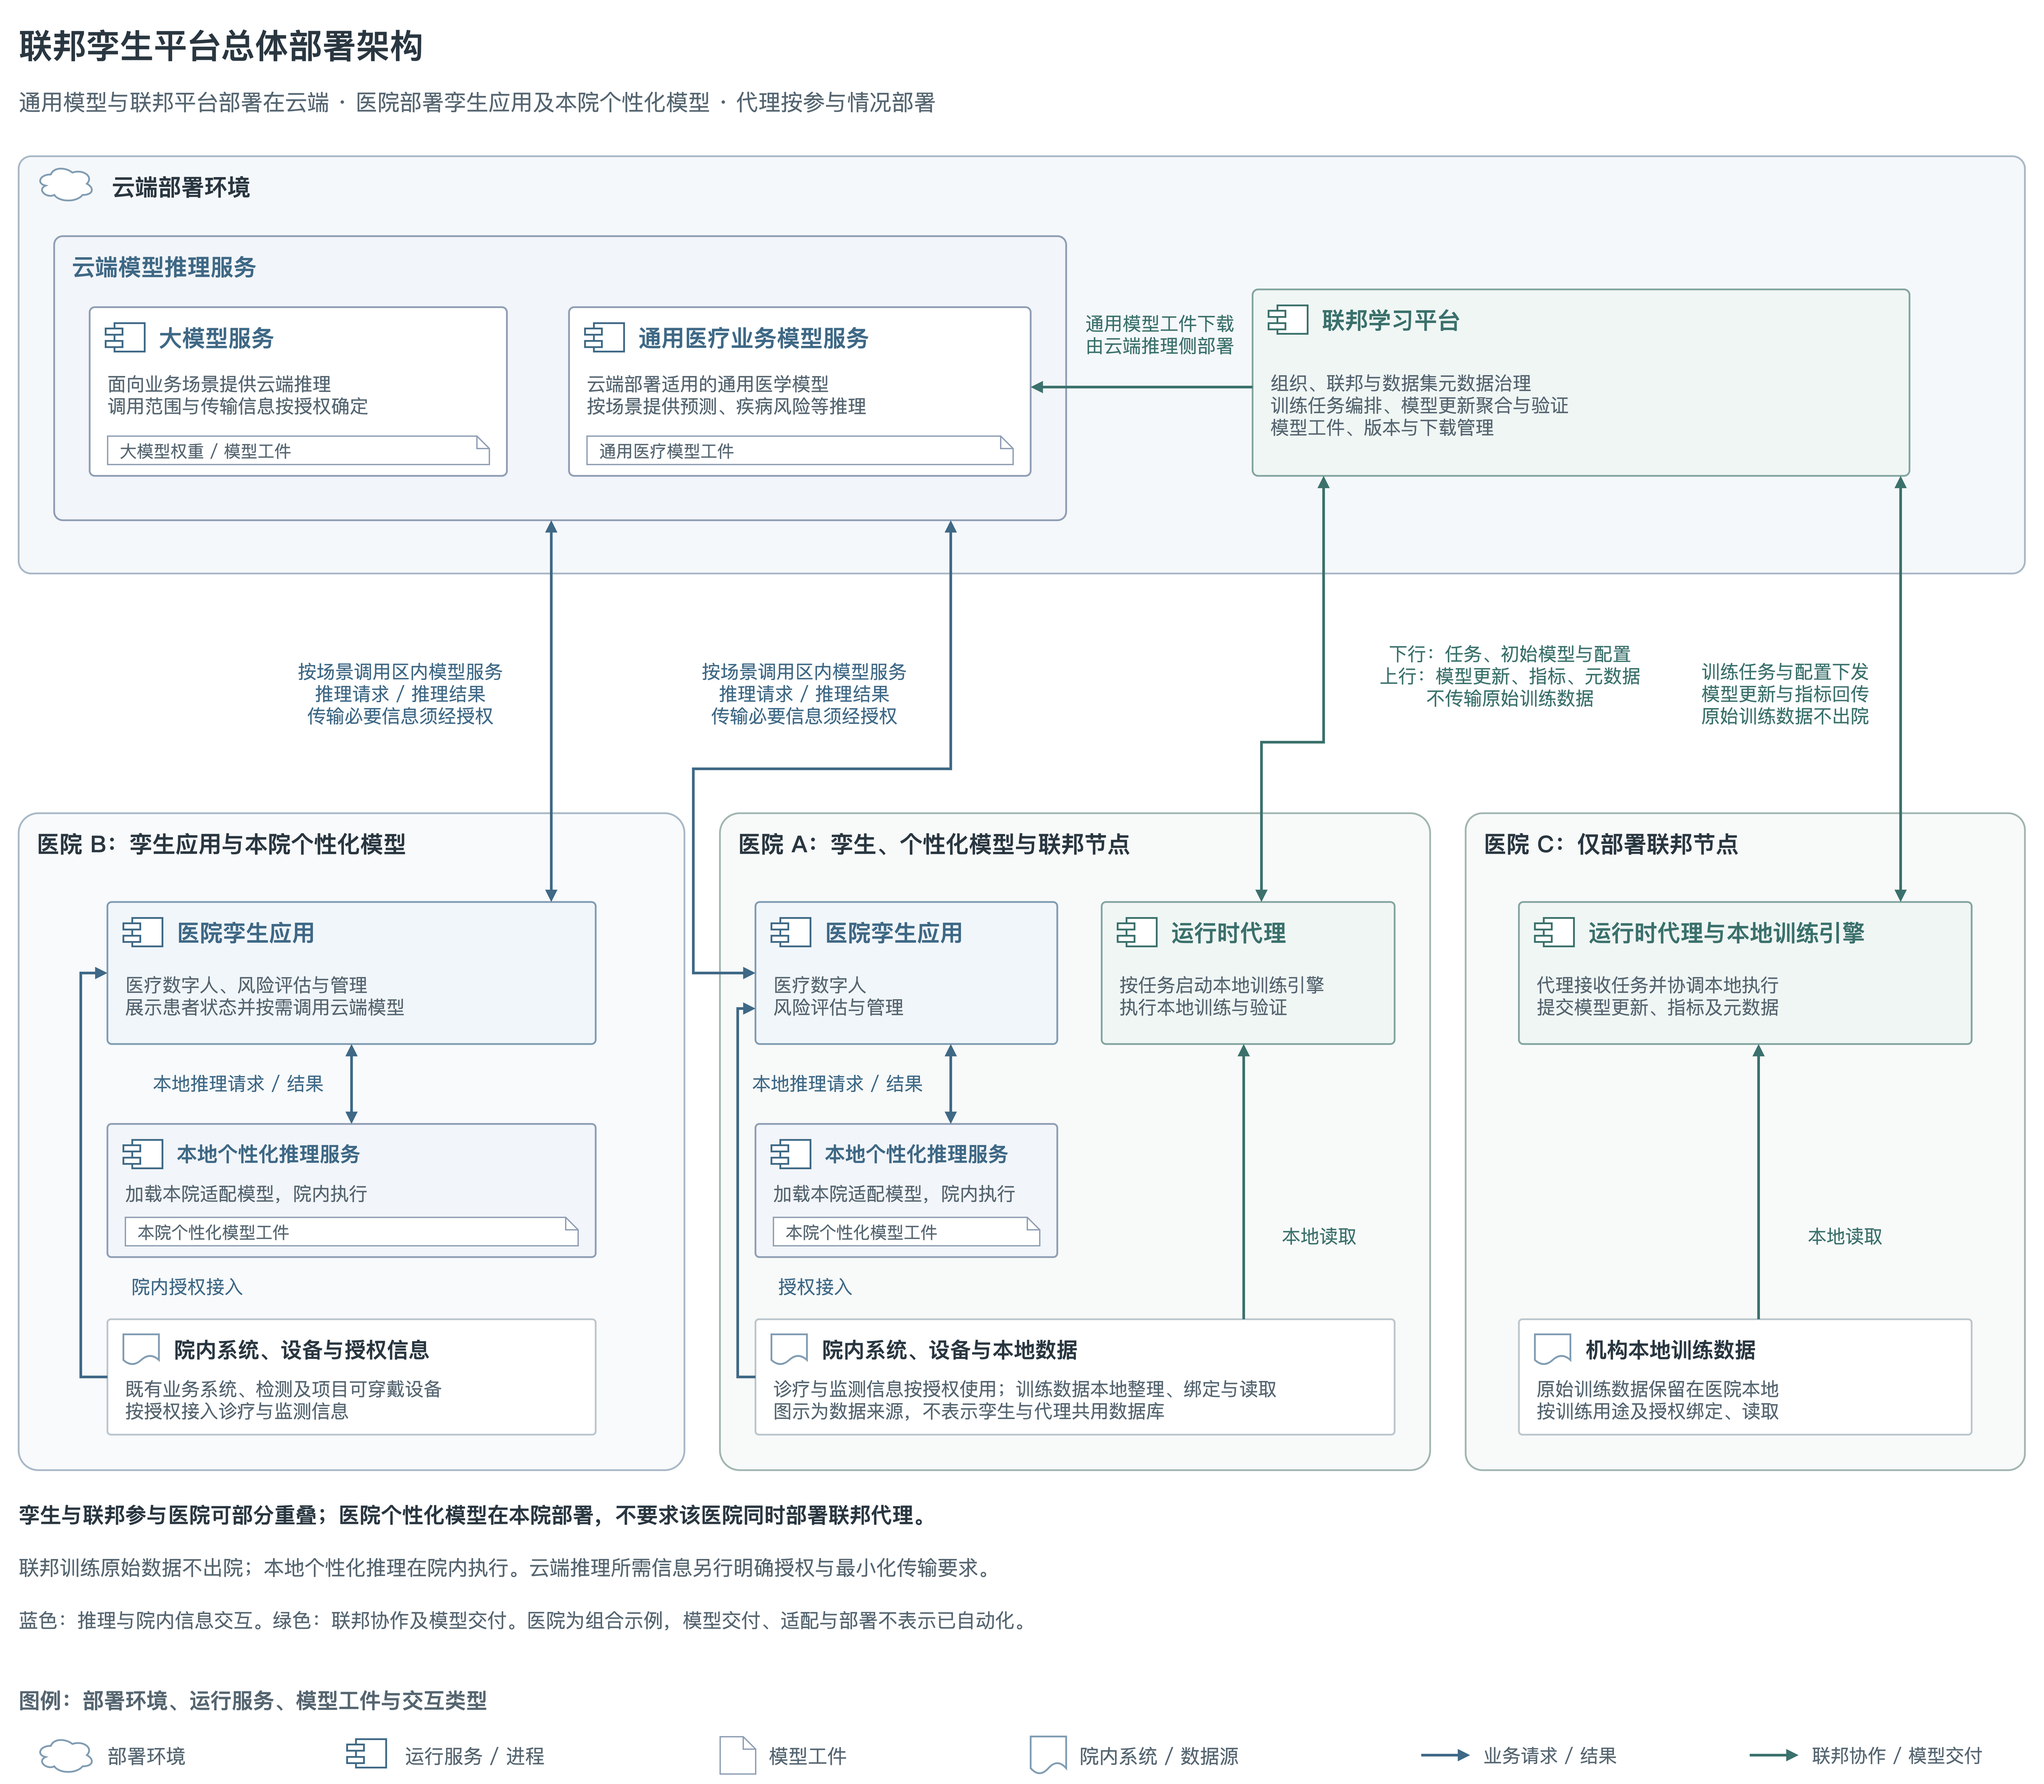
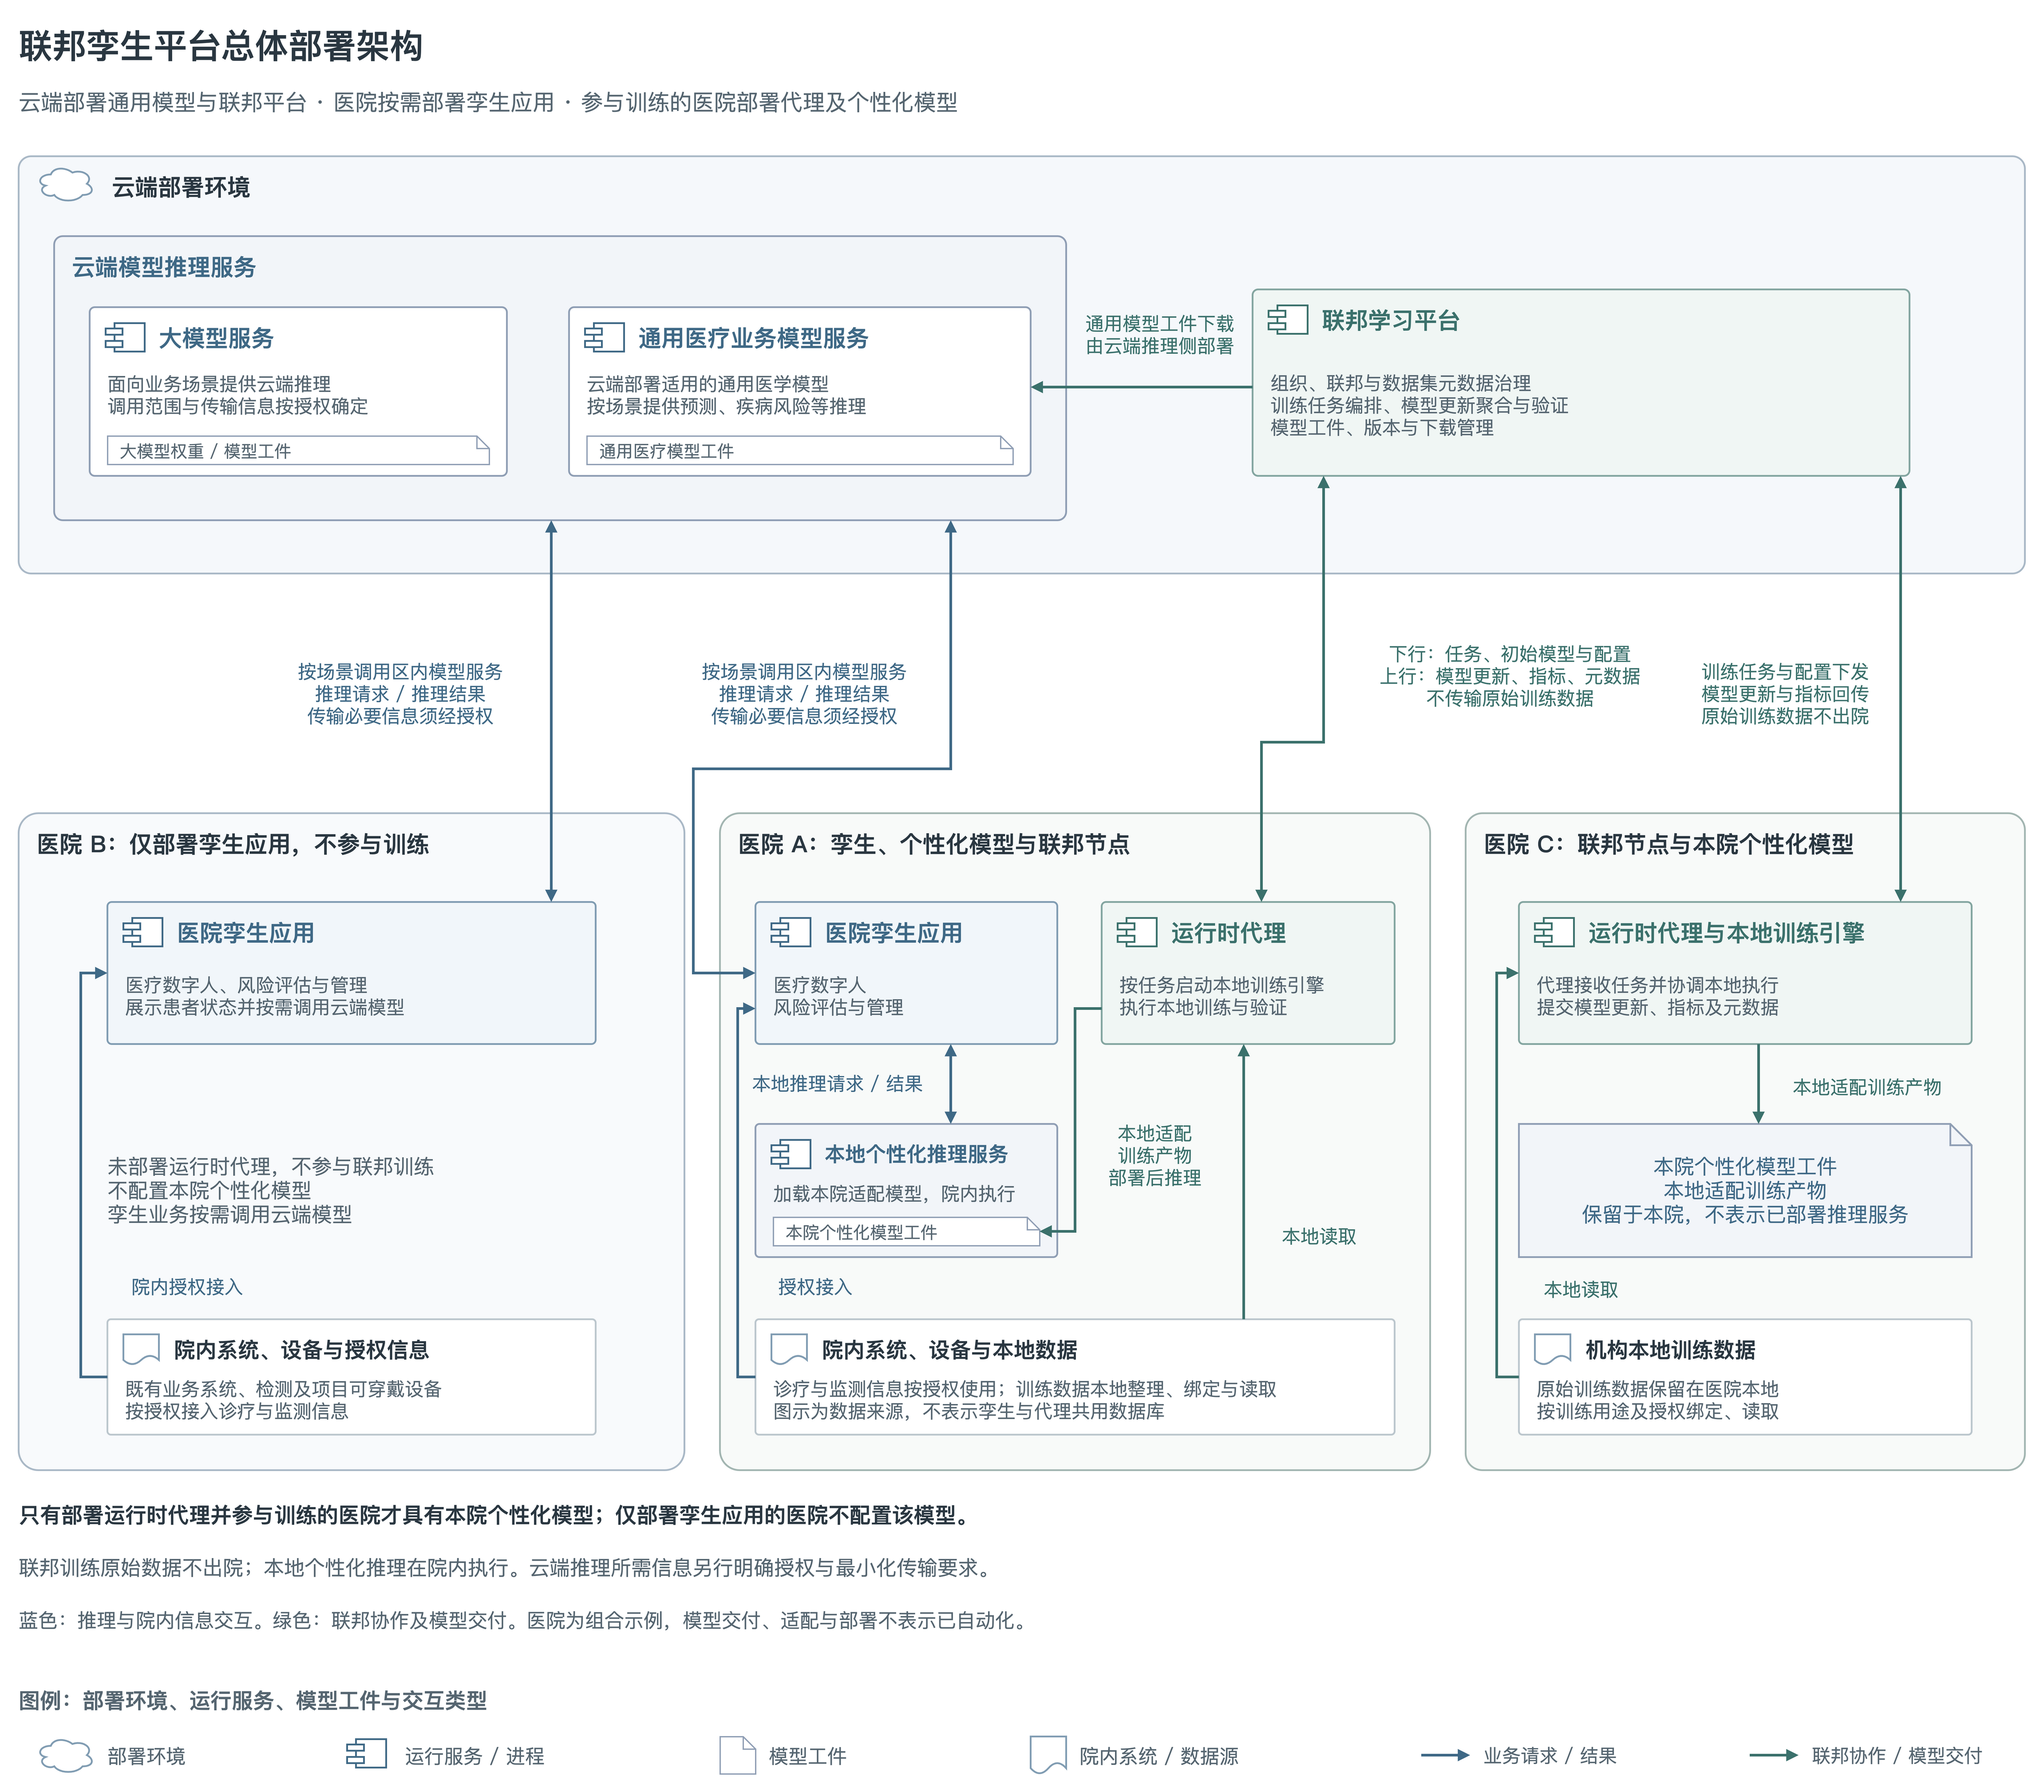
docs: restrict personalized models to training participants
Remove the personalized model from the twin-only hospital. Show training artifacts for hospitals with runtime agents and distinguish retained model artifacts from deployed inference services. Update deployment documentation and diagram exports.

diff --git a/docs/438c/merge/federated-twin-deployment-overview.md b/docs/438c/merge/federated-twin-deployment-overview.md
@@ -6,26 +6,27 @@
 
 ## 部署说明
 
-联邦孪生软件平台采用云端与医院侧分工部署的方式。联邦学习平台、大模型服务及通用医疗业务模型推理服务部署在云端；医疗数字人与风险评估等孪生应用，以及针对本院数据与人群适配的个性化模型，部署在相应医院。孪生应用可调用本院个性化模型完成本地业务推理，也可按场景调用云端模型。参与联邦训练的医院另部署运行时代理及本地训练执行环境，由代理按任务协调本地训练引擎完成训练与验证。
+联邦孪生软件平台采用云端与医院侧分工部署的方式。联邦学习平台、大模型服务及通用医疗业务模型推理服务部署在云端；医疗数字人与风险评估等孪生应用按需部署在相应医院。只有部署运行时代理并参与训练的医院才具有针对本院数据及人群适配的个性化模型，模型工件保留在本院。该医院同时部署孪生应用时，可部署本地个性化推理服务供其调用；孪生应用也可按场景调用云端模型。运行时代理按任务协调本地训练引擎完成训练、适配与验证，模型工件和运行中的推理服务分别表示。
 
-孪生应用的部署医院集合与联邦训练参与医院集合可以部分重叠，不要求一一对应。图中的医院 A、B、C 是部署组合示例，不代表具体医院名称、部署数量或地址：医院 A 部署孪生应用、本院个性化模型及联邦节点，医院 B 部署孪生应用和本院个性化模型但不部署联邦节点，医院 C 仅部署联邦节点。个性化模型的本地推理部署不等于该医院必须参与联邦训练。实际医院清单、服务地址及网络接入方式按交付部署配置维护。
+孪生应用的部署医院集合与联邦训练参与医院集合可以部分重叠，不要求一一对应，但个性化模型的归属限定于训练参与医院。图中的医院 A、B、C 是部署组合示例，不代表具体医院名称、部署数量或地址：医院 A 部署孪生应用、联邦节点及本地个性化推理服务；医院 B 仅部署孪生应用，不参与训练、不配置本院个性化模型；医院 C 部署联邦节点并保留训练适配产生的本院个性化模型工件，不因此假定其部署孪生应用或在线推理服务。实际医院清单、服务地址及网络接入方式按交付部署配置维护。
 
 | 部署位置 | 组件 | 主要职责 |
 | --- | --- | --- |
 | 云端 | 联邦学习平台 | 联邦协作管理、训练编排、模型更新聚合与验证、模型工件与版本管理。 |
 | 云端 | 大模型服务 | 面向适用场景提供推理能力；不默认属于联邦训练对象。 |
 | 云端 | 通用医疗业务模型服务 | 部署适用的通用医学模型，按场景提供患者预测、疾病风险等业务推理。 |
-| 孪生部署医院 | 本院个性化模型与本地推理能力 | 部署针对本院数据及人群适配的模型，为本院孪生应用提供本地推理。与通用模型分别管理相应工件和适用范围。 |
-| 孪生部署医院 | 孪生应用 | 接入授权诊疗与监测信息，呈现医疗数字人、风险评估和管理结果；调用本地个性化模型，或按场景调用云端模型。 |
+| 部署代理并参与训练的医院 | 本院个性化模型工件 | 保留针对本院数据及人群训练适配的模型，与通用模型分别管理工件和适用范围；不自动等同于在线推理服务。 |
+| 同时部署孪生应用并参与训练的医院 | 本地个性化推理服务 | 加载本院个性化模型，供本院孪生业务调用。 |
+| 孪生部署医院 | 孪生应用 | 接入授权诊疗与监测信息，呈现医疗数字人、风险评估和管理结果；参与训练并部署本地推理服务时可调用本院模型，否则按场景调用云端模型。 |
 | 联邦参与医院 | 运行时代理与本地训练引擎 | 本地数据集绑定与读取、接收任务、执行训练与验证、提交模型更新及指标。 |
 
 ## 交互边界
 
 - 云端推理：医院孪生应用按场景调用大模型或通用医疗业务模型服务，传输授权范围内的必要信息并获取推理结果。连线接到模型服务区域表示可选调用区内服务，不表示存在额外公共网关，也不预设大模型与医疗业务模型互相调用。
-- 本地推理：本院个性化模型部署在医院，由本院孪生应用调用，推理请求与结果在院内交互；不将所有医疗业务模型统一描述为部署在云端。运行时代理承担训练协调，本地个性化模型承担业务推理，两者职责不同。
+- 本地推理：限于具有运行时代理并参与训练、且实际部署本地推理服务的医院。本地推理服务加载本院个性化模型，由本院孪生应用调用，请求与结果在院内交互；仅部署孪生应用不构成具有本院个性化模型的条件。运行时代理承担训练协调，本地推理服务承担业务推理，两者职责不同。
 - 联邦训练：云端平台下发任务、初始模型与配置；医院代理回传模型更新、训练验证指标和数据集元数据。原始训练数据保留在医院本地，不通过联邦训练链路上传病例明细。
 - 院内集成：孪生应用按授权接入院内系统、检测及项目可穿戴设备的信息；运行时代理读取授权的本地训练数据。数据来源框不表示孪生应用与代理共用数据库或用户权限服务。
-- 模型交付：通用模型可部署到云端通用推理服务；针对医院适配的个性化模型工件部署到对应医院。图中省略本地个性化模型的工件下载及部署路径，避免将其混同为运行时代理的在线训练接口；具体适配、工件交付及部署流程需按实际实现明确，不表示已经实现自动发布或适配算法。
+- 模型交付：通用模型可部署到云端通用推理服务；医院个性化模型由该医院参与的训练与本地适配流程产生，在本院保留工件，并按实际需求部署推理服务。图中以绿色连线标出训练产物关系，不表示训练引擎同时承担在线推理，也不表示已经实现自动发布或适配算法。
 
 “原始训练数据不出院”针对联邦训练链路，本地个性化推理则在院内执行；这两点均不能据此推定云端推理请求不携带患者信息。云端推理所需字段、授权、最小化传输、脱敏与安全措施应按实际业务及部署方案明确，不在图中虚构已落实的具体技术方案。
 
